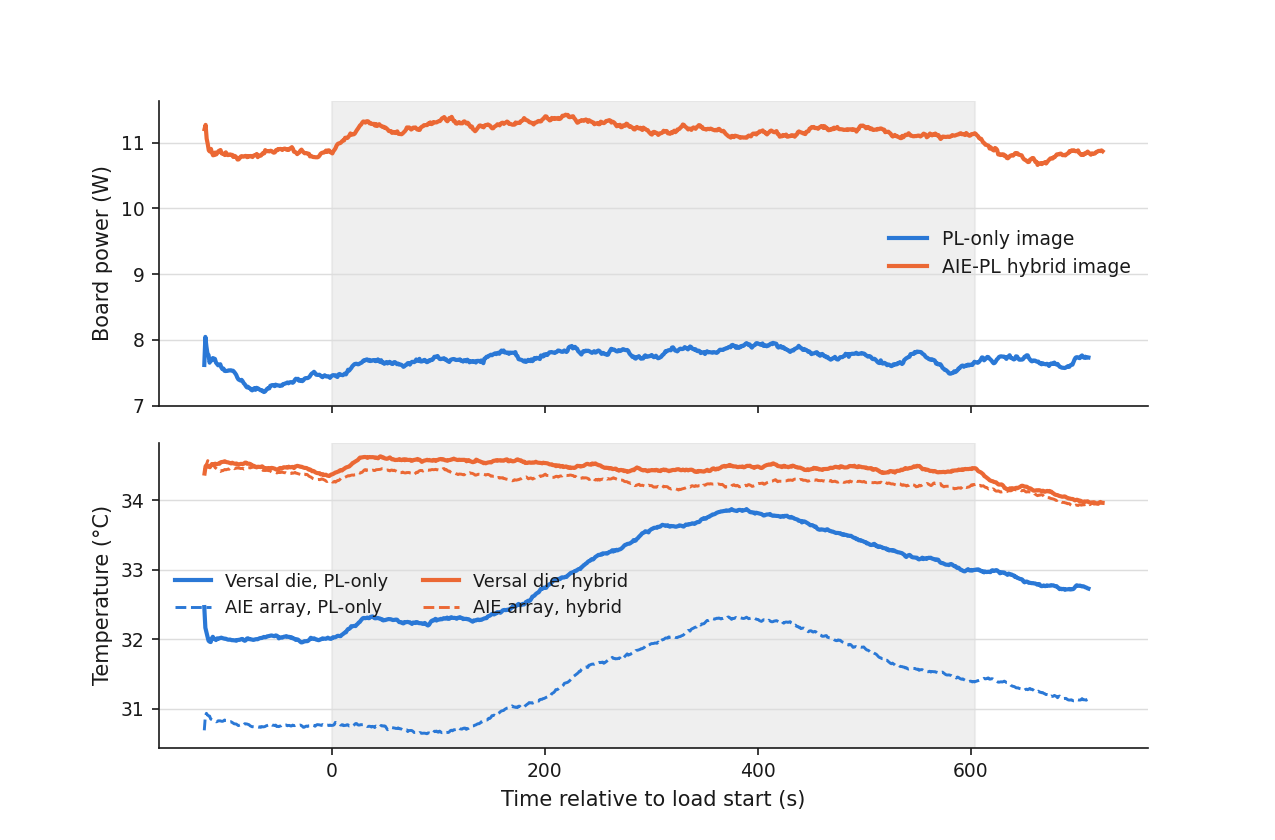
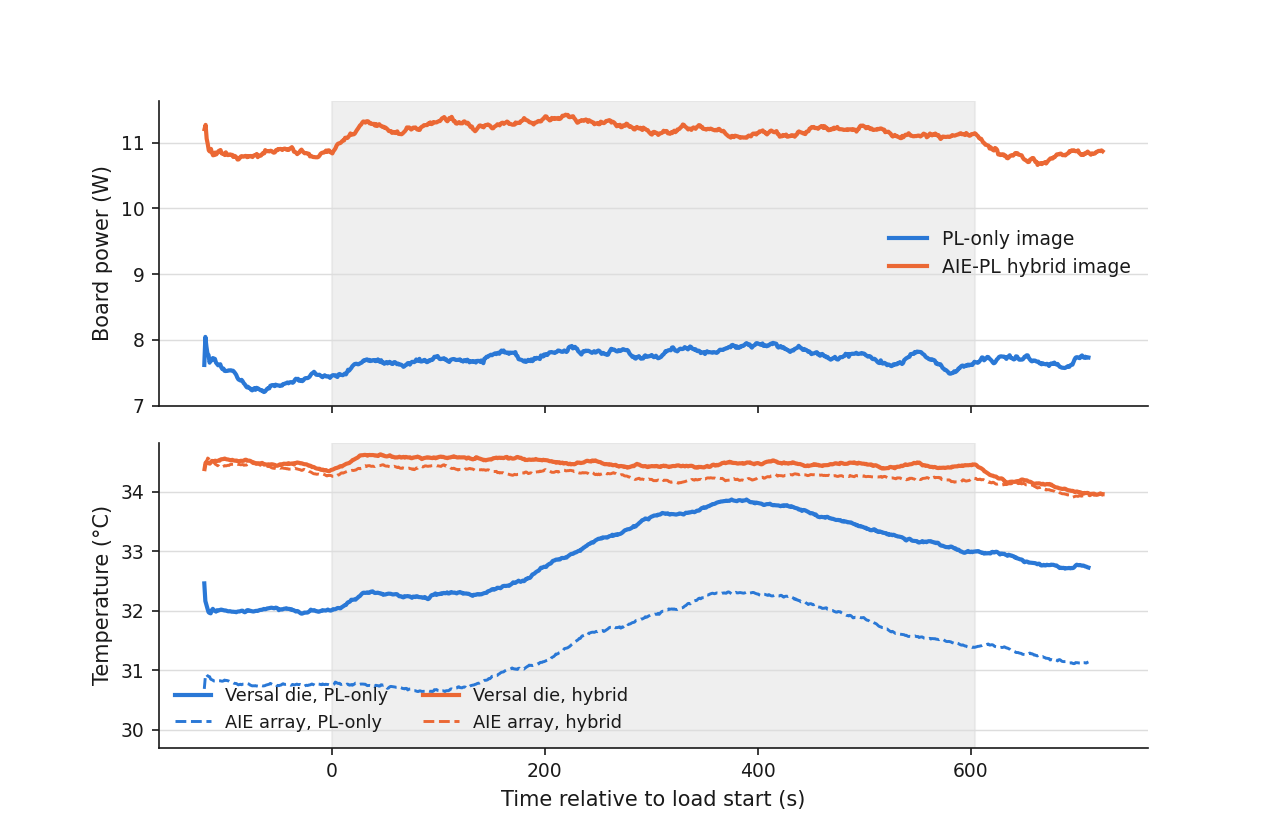
figs: move temperature legend clear of the traces
Extend the y-axis down to 29.7 C and place the legend lower-left in the
freed space.

diff --git a/scripts/plot_board_power_temp.py b/scripts/plot_board_power_temp.py
@@ -66,7 +66,8 @@ ax2.plot(ai_t, roll(col(ai_rows, "aie")), color=ORANGE, lw=1.4, ls="--",
          label="AIE array, hybrid")
 ax2.set_ylabel("Temperature (°C)", color=BLACK, fontsize=10)
 ax2.set_xlabel("Time relative to load start (s)", color=BLACK, fontsize=10)
-ax2.legend(frameon=False, fontsize=8.5, labelcolor=BLACK, ncol=2, loc="center left")
+ax2.set_ylim(29.7, None)   # headroom below the traces for the legend
+ax2.legend(frameon=False, fontsize=8.5, labelcolor=BLACK, ncol=2, loc="lower left")
 
 fig.tight_layout()
 out = "/home/snehadri/repos/aie-unsupervised-search/figs/board_pl_vs_aie_power_temp.png"
